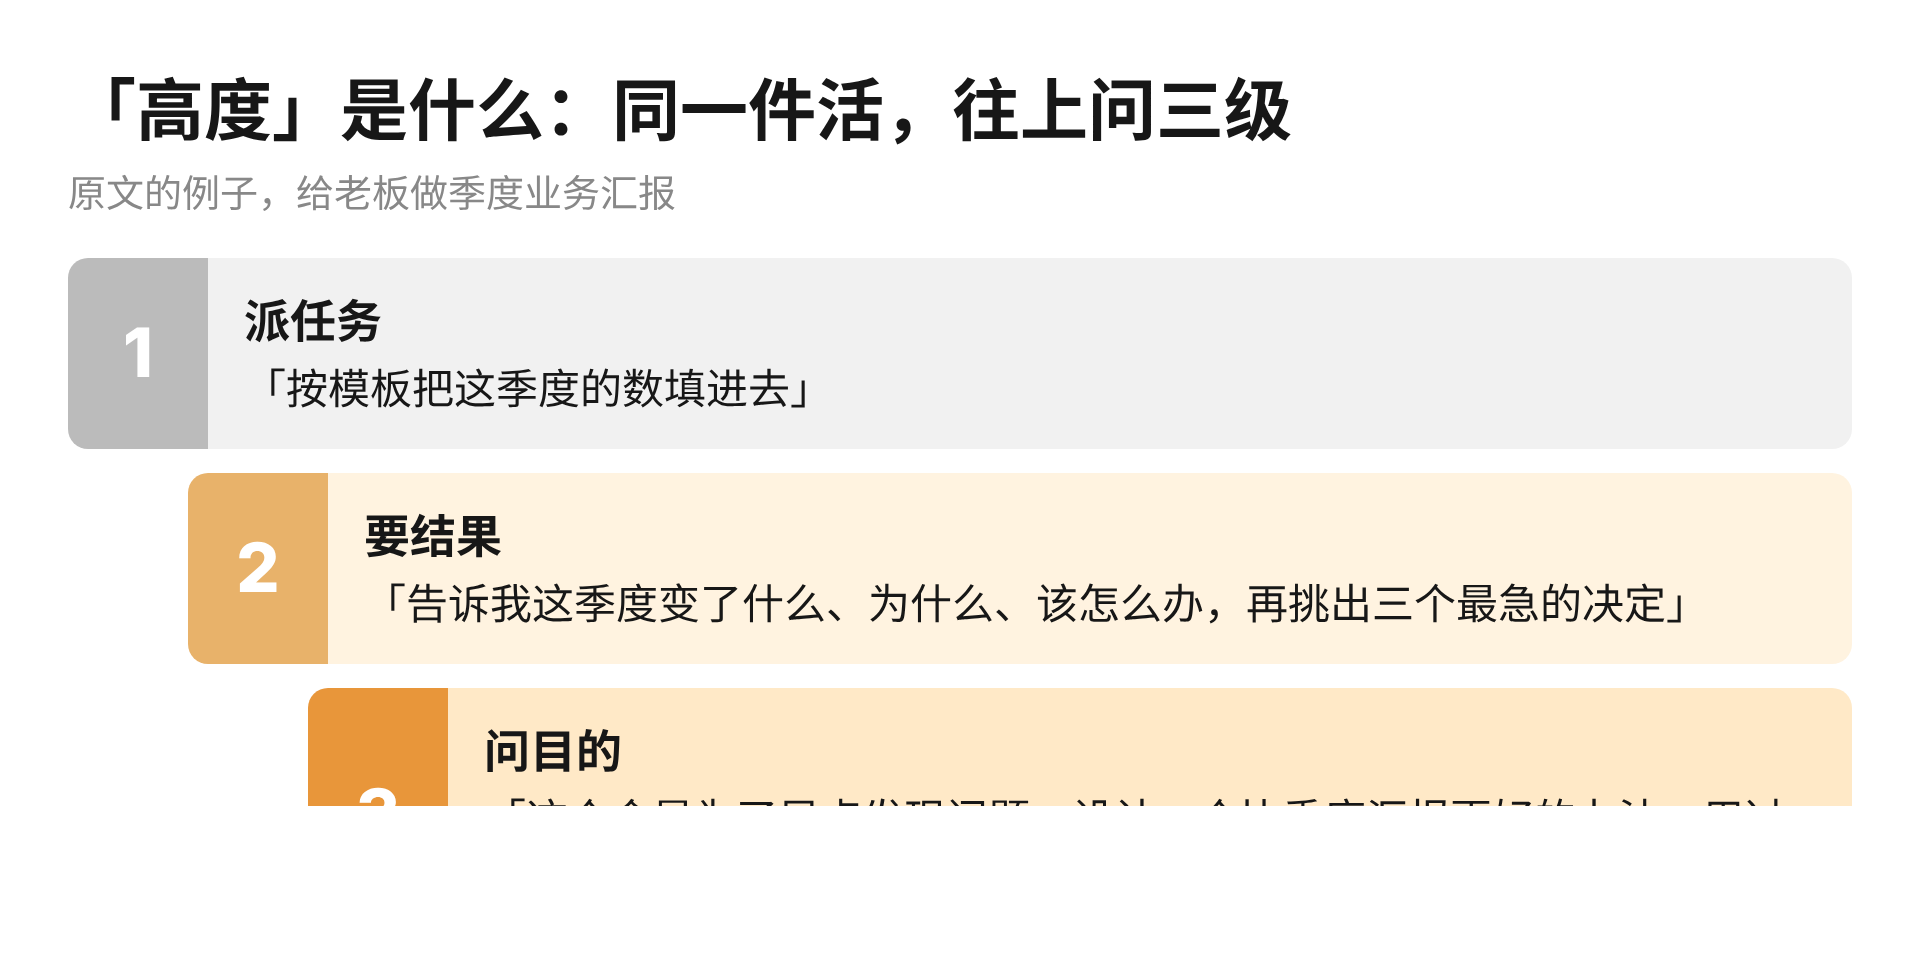
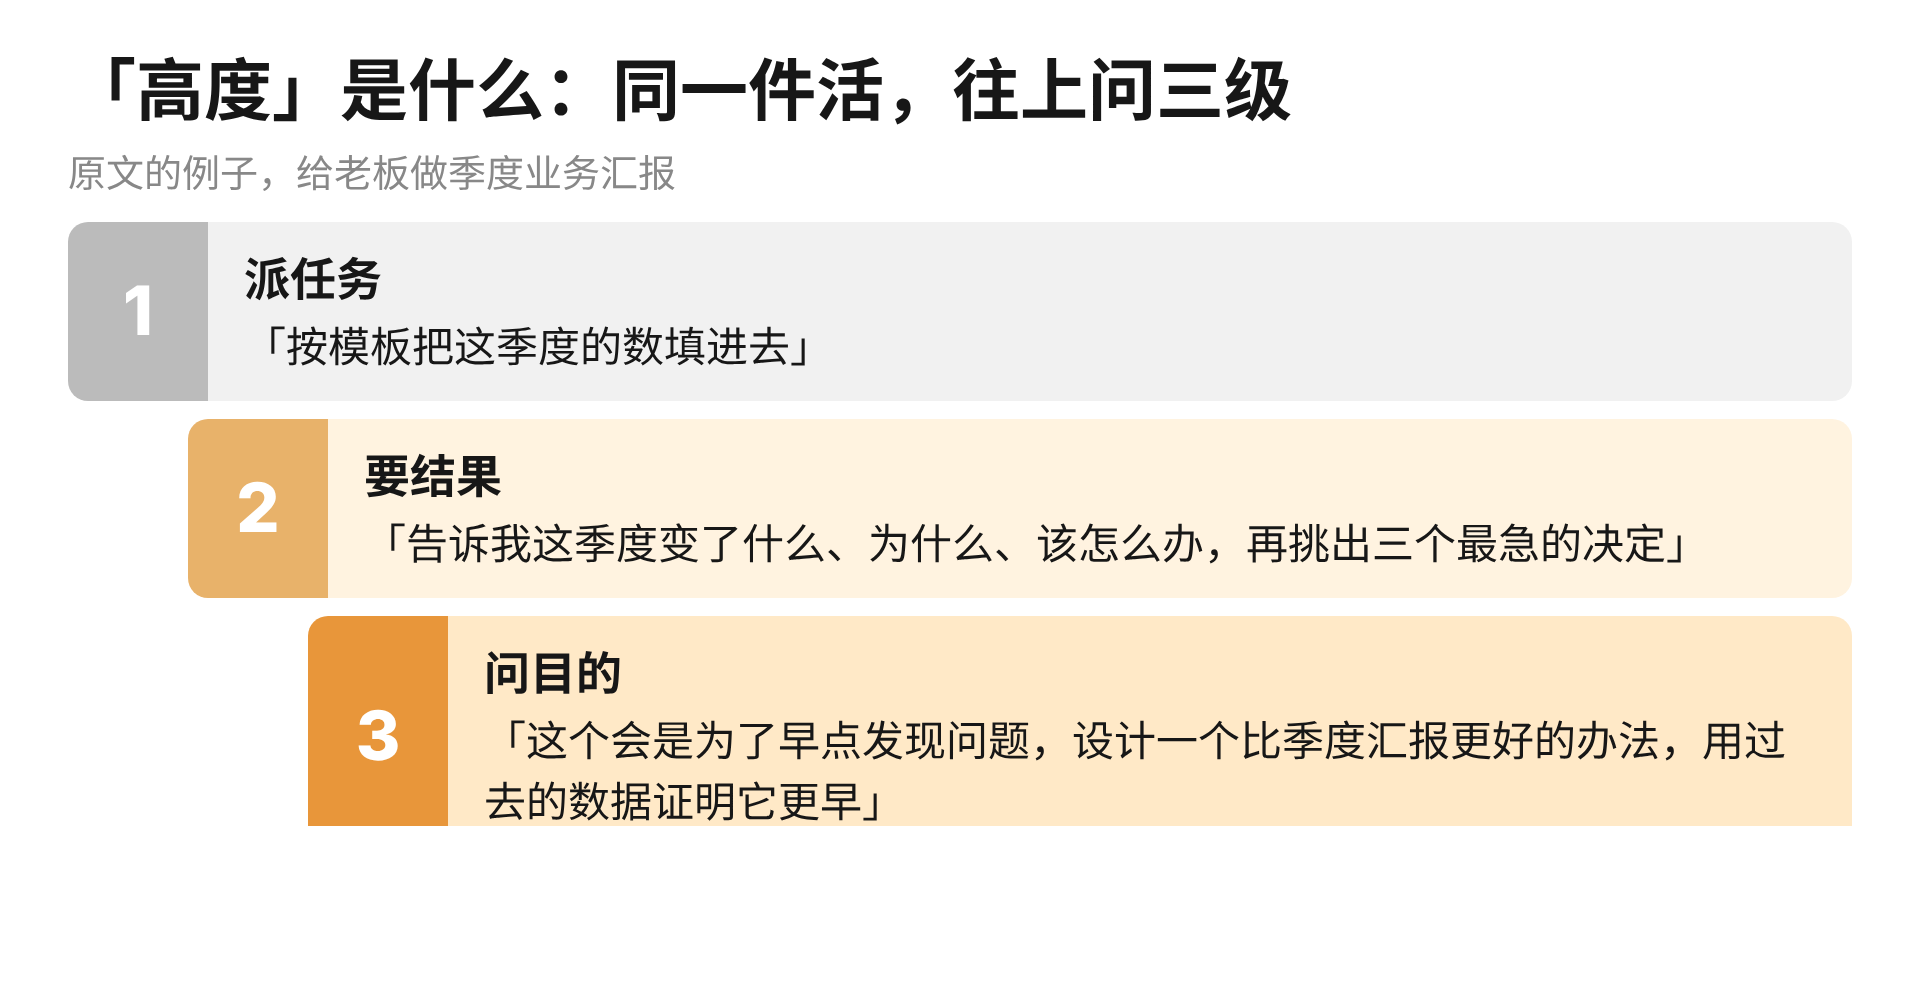
ambitious 稿：阶梯图收紧尺寸，第 3 页完整显示
Claude-Session: https://claude.ai/code/session_01QnHH8YpEqNgD4xeX46mZ1k

Changed region(s): [[0.0312, 0.0612, 0.9688, 0.8265]]

diff --git a/发布/2026-10-15_ambitious-with-ai/meme版/编辑用/altitude.html b/发布/2026-10-15_ambitious-with-ai/meme版/编辑用/altitude.html
@@ -1,11 +1,11 @@
 <!doctype html><html><head><meta charset="utf-8"><style>
-body{margin:0;width:960px;height:490px;background:#fff;font-family:-apple-system,"PingFang SC","Noto Sans CJK SC",sans-serif;color:#171717}
-.wrap{padding:28px 34px}
+body{margin:0;width:960px;height:500px;background:#fff;font-family:-apple-system,"PingFang SC","Noto Sans CJK SC",sans-serif;color:#171717}
+.wrap{padding:18px 34px}
 h1{font-size:34px;margin:0 0 4px;font-weight:700}
-.sub{font-size:19px;color:#888;margin-bottom:20px}
-.step{display:flex;align-items:stretch;margin-bottom:12px}
+.sub{font-size:19px;color:#888;margin-bottom:12px}
+.step{display:flex;align-items:stretch;margin-bottom:9px}
 .n{width:70px;border-radius:10px 0 0 10px;display:flex;align-items:center;justify-content:center;font-size:34px;font-weight:800;color:#fff}
-.b{flex:1;border-radius:0 10px 10px 0;padding:14px 18px}
+.b{flex:1;border-radius:0 10px 10px 0;padding:11px 18px}
 .k{font-size:23px;font-weight:700;margin-bottom:4px}
 .q{font-size:21px;line-height:1.45}
 .s1 .n{background:#bbb}.s1 .b{background:#f1f1f1}.s1{margin-left:0}
